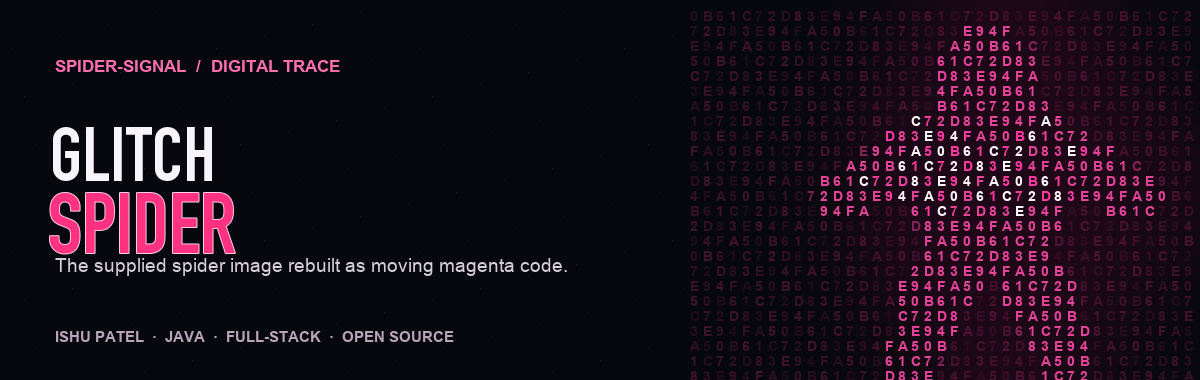
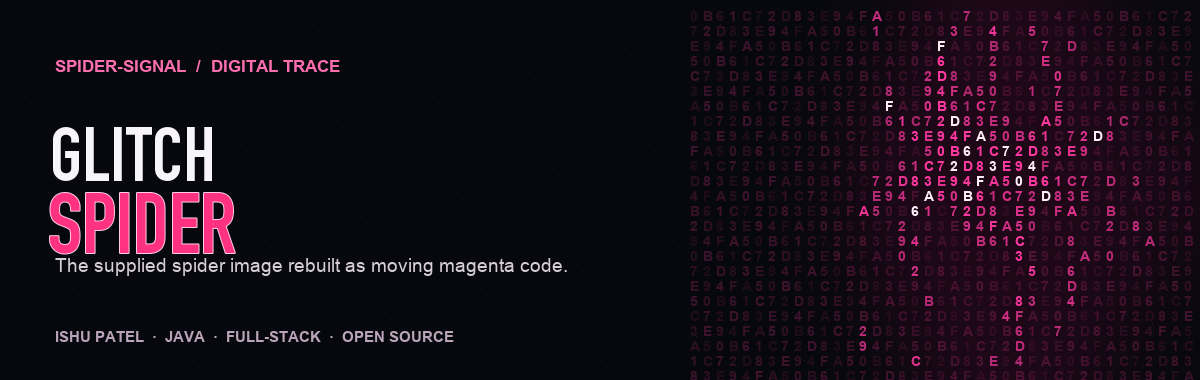
Revert "Build glitch spider from animated code field"
This reverts commit 577baac9e7d4ae348e6fbafa12463a67d44ce96b.

Changed region(s): [[0.6783, 0.0579, 0.9867, 1.0], [0.7092, 0.0289, 0.74, 0.0579]]

diff --git a/scripts/build_spider_art.py b/scripts/build_spider_art.py
@@ -2,7 +2,7 @@
 import math
 from pathlib import Path
 
-from PIL import Image, ImageChops, ImageDraw, ImageEnhance, ImageFilter, ImageFont, ImageOps
+from PIL import Image, ImageDraw, ImageEnhance, ImageFilter, ImageFont, ImageOps
 
 ROOT = Path(__file__).resolve().parents[1]
 REF = ROOT / "assets" / "spider" / "references"
@@ -197,24 +197,8 @@ def spider_code_mask():
             if red > green * 1.15 and blue > green * 1.08:
                 pink_signal = min(red, blue) - green
                 dst[x, y] = max(0, min(255, int((pink_signal - 8) * 4.2)))
-    source_texture = mask.filter(ImageFilter.MaxFilter(5)).resize((380, 365), Image.Resampling.LANCZOS)
-
-    # Bound the extracted texture to a clean Spider-Man silhouette so nearby
-    # source-image interface marks never become a second rectangular picture.
-    silhouette = Image.new("L", (380, 365), 0)
-    d = ImageDraw.Draw(silhouette)
-    d.ellipse((143, 12, 237, 110), fill=210)
-    d.polygon([(142, 82), (238, 82), (278, 168), (242, 248), (140, 248), (102, 168)], fill=210)
-    d.polygon([(145, 95), (120, 104), (15, 174), (36, 207), (151, 160)], fill=175)
-    d.polygon([(235, 95), (260, 104), (365, 174), (344, 207), (229, 160)], fill=175)
-    d.polygon([(153, 224), (192, 245), (130, 360), (86, 360), (108, 270)], fill=190)
-    d.polygon([(227, 224), (188, 245), (250, 360), (294, 360), (272, 270)], fill=190)
-    silhouette = silhouette.filter(ImageFilter.GaussianBlur(1.2))
-    texture = ImageChops.multiply(source_texture, silhouette)
-    # Keep the complete figure filled with moving code while the sampled image
-    # texture gives the center its brighter digital grain.
-    mask = ImageChops.lighter(silhouette.point(lambda value: value // 2), texture)
-    return mask.filter(ImageFilter.MaxFilter(9)).filter(ImageFilter.GaussianBlur(0.7))
+    mask = mask.filter(ImageFilter.MaxFilter(5)).filter(ImageFilter.GaussianBlur(0.7))
+    return mask.resize((300, 365), Image.Resampling.LANCZOS)
 
 
 def signal_poster(frame_index=0, spider_mask=None):
@@ -235,7 +219,7 @@ def signal_poster(frame_index=0, spider_mask=None):
 
     if spider_mask is None:
         spider_mask = spider_code_mask()
-    spider_x, spider_y = 794, 7
+    spider_x, spider_y = 850, 7
     cell_w, cell_h = 13, 15
     code_font = font("Arial Bold", 14)
     glyphs = "0123456789ABCDEF"
@@ -253,12 +237,9 @@ def signal_poster(frame_index=0, spider_mask=None):
             # number field continuous around it. Values scroll independently by column.
             code_row = row + column_phase
             glyph = glyphs[(col * 11 + code_row * 7 + frame_index // 2) % len(glyphs)]
-            if strength > 120:
-                color = (255, 244, 250, 255) if (row + col + frame_index) % 2 == 0 else (255, 56, 160, 255)
-            elif strength > 80:
-                color = (255, 74, 169, 225)
-            elif strength > 50:
-                color = (234, 58, 148, 130)
+            if strength > 12:
+                alpha = min(255, 150 + strength)
+                color = (255, 238, 247, alpha) if strength > 92 and (row + col + frame_index) % 3 == 0 else (255, 56, 160, alpha)
             else:
                 alpha = 28 + ((row + col * 3 + frame_index // 2) % 5) * 9
                 color = (222, 48, 133, alpha)

diff --git a/PRODUCT.md b/PRODUCT.md
@@ -11,6 +11,6 @@ A distinctive, professional profile that makes the student's focus and actual pr
 ## Capabilities and Constraints
 CSE student; Java and DSA learner; software development, AI agents, practical AI products, open source and hackathons. Claims require public evidence or the supplied brief. No private repository content. No fake statistics or links. Responsive, accessible text fallbacks, lightweight SVG animations.
 ## Brand Commitments
-The profile README is Spider-Man-inspired and developer-first. Use the user's black-and-white Spider-Man hero with a glowing white spider emblem. Render the supplied glitch-spider silhouette in the same moving hexadecimal field, with short pixel shears and no separate image tile. Theme artwork in deep ink, scarlet, magenta, and white. Showcase verified account metrics, selected projects, and merged contributions. Animate project illustrations with actions linked to their functions, and provide still artwork for reduced-motion preferences. Keep artwork labels large and readable. GitHub owns the profile's outer page background; the README can theme only its own artwork and content.
+The profile README is Spider-Man-inspired and developer-first. Use the user's black-and-white Spider-Man hero with a glowing white spider emblem and include the supplied glitch-spider art. Give the glitch-spider art a moving hexadecimal background and short pixel shears. Theme artwork in deep ink, scarlet, magenta, and white. Showcase verified account metrics, selected projects, and merged contributions. Animate project illustrations with actions linked to their functions, and provide still artwork for reduced-motion preferences. Keep artwork labels large and readable. GitHub owns the profile's outer page background; the README can theme only its own artwork and content.
 ## Evidence on Hand
 Public GitHub profile is ishu7w, email is public. No existing profile repository. Public project READMEs and upstream PRs inspected. No verified coding-service identity, portfolio, LinkedIn, or hackathon awards.
